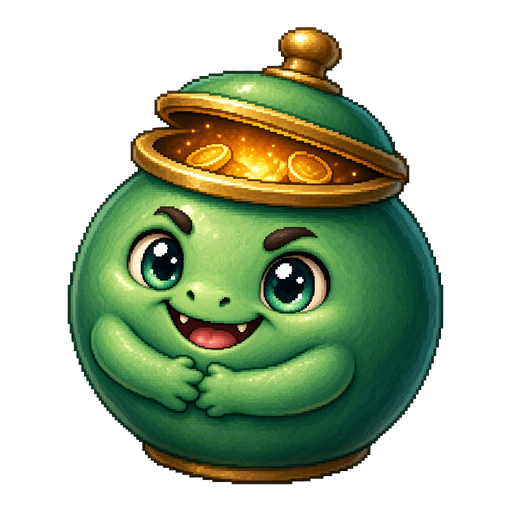
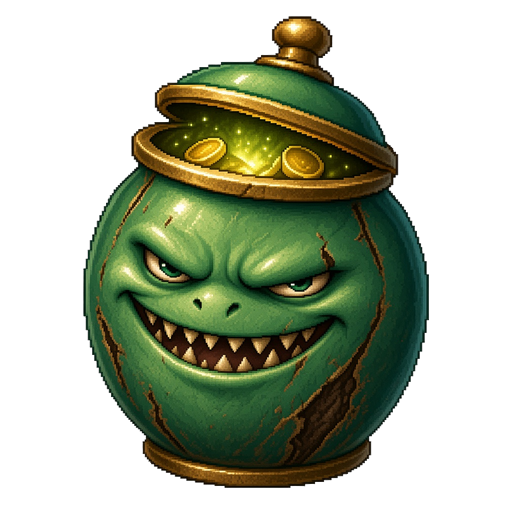
Give Greedpot a meaner face and lock Defense to tanks.

diff --git a/packages/engine/src/arena.ts b/packages/engine/src/arena.ts
@@ -3,7 +3,7 @@
 
 import { getCardDef, hasCard } from './cards/registry.js';
 import type { CardInstance, SummonCardDef } from './cards/types.js';
-import { hasPieceDef } from './pieces.js';
+import { canHaveDefense, getPieceDef, hasPieceDef } from './pieces.js';
 import { applyEffect, applySandboxAbility, beginSummon, IllegalActionError, offerOnSummonGrant, resolveSummon } from './rules.js';
 import {
   addPiece,
@@ -24,7 +24,7 @@ export type ArenaOp =
   | { type: 'removePiece'; square: Square }
   | { type: 'useAbility'; from: Square; to: Square; index?: number }
   | { type: 'setMana'; color: Color; mana: number }
-  /** Sandbox stance: enter Defense (1 charge) or leave it. King cannot. */
+  /** Sandbox stance: enter Defense (1 charge) only if the piece can have it; leave drops charges. */
   | { type: 'setStance'; square: Square; stance: 'attack' | 'defense' };
 
 const MANA_MAX = 99_999;
@@ -195,6 +195,9 @@ export function applyArenaOp(state: GameState, op: ArenaOp): GameState {
       if (piece.kind === 'king') throw new IllegalActionError('The King cannot have Defense.');
       if (piece.summon) throw new IllegalActionError('A piece being sacrificed cannot change stance.');
       if (op.stance === 'defense') {
+        if (!canHaveDefense(piece.kind)) {
+          throw new IllegalActionError(`${getPieceDef(piece.kind).name} cannot have Defense.`);
+        }
         if (piece.defense <= 0) {
           piece.defense = 1;
           piece.stance = 'defense';

diff --git a/packages/client/src/game/GameView.ts b/packages/client/src/game/GameView.ts
@@ -1,4 +1,4 @@
-import { canAct, getCardDef, getPieceDef, opposite, previewAbilities, previewMoves, rankOf, type Action, type ArenaOp, type Color, type GameEvent, type Piece, type PlayerView, type Square } from '@chessx/engine';
+import { canAct, canHaveDefense, getCardDef, getPieceDef, opposite, previewAbilities, previewMoves, rankOf, type Action, type ArenaOp, type Color, type GameEvent, type Piece, type PlayerView, type Square } from '@chessx/engine';
 import { Application, Container, Graphics, Text, type FederatedPointerEvent } from 'pixi.js';
 import { preloadArt } from './art.js';
 import { CardSprite } from './CardSprite.js';
@@ -363,7 +363,9 @@ export class GameView {
     if (!piece || !this.view) return null;
     if (this.arena) {
       if (piece.kind === 'king' || piece.summon) return null;
-      return { type: 'setStance', square: piece.square, stance: piece.defense > 0 ? 'attack' : 'defense' };
+      if (piece.defense > 0) return { type: 'setStance', square: piece.square, stance: 'attack' };
+      if (canHaveDefense(piece.kind)) return { type: 'setStance', square: piece.square, stance: 'defense' };
+      return null;
     }
     for (const a of this.view.legalActions) {
       if (a.type === 'setStance' && a.square === piece.square) return a;

diff --git a/packages/engine/test/rules.test.ts b/packages/engine/test/rules.test.ts
@@ -1111,8 +1111,9 @@ describe('testing arena', () => {
     expect(pieceAt(g, s('e4'))!.stance).toBe('defense');
 
     g = applyArenaOp(g, { type: 'spawnPiece', kind: 'pawn', color: 'black', square: s('d5') });
-    g = applyArenaOp(g, { type: 'setStance', square: s('d5'), stance: 'defense' });
-    expect(pieceAt(g, s('d5'))!.defense).toBe(1);
+    expect(() => applyArenaOp(g, { type: 'setStance', square: s('d5'), stance: 'defense' })).toThrow(/cannot have Defense/);
+    g = applyArenaOp(g, { type: 'spawnPiece', kind: 'greedpot', color: 'white', square: s('c4') });
+    expect(() => applyArenaOp(g, { type: 'setStance', square: s('c4'), stance: 'defense' })).toThrow(/cannot have Defense/);
     g = applyArenaOp(g, { type: 'spawnPiece', kind: 'king', color: 'white', square: s('e1') });
     expect(() => applyArenaOp(g, { type: 'setStance', square: s('e1'), stance: 'defense' })).toThrow(/King/);
   });

diff --git a/packages/client/src/inspect.ts b/packages/client/src/inspect.ts
@@ -174,7 +174,9 @@ export class InspectPanel {
     } else if (isKing) {
       this.stanceHint.textContent = 'The King cannot have Defense.';
     } else if (piece.defense <= 0) {
-      this.stanceHint.textContent = 'Only pieces with Defense can leave it. Standard pieces never start with Defense.';
+      this.stanceHint.textContent = gameView.arena
+        ? 'This piece cannot have Defense.'
+        : 'Only pieces with Defense can leave it. Standard pieces never start with Defense.';
     } else if (piece.summon) {
       this.stanceHint.textContent = 'A piece being sacrificed cannot leave Defense.';
     } else if (currentView?.turnInfo.stanceChanged.includes(piece.id)) {

diff --git a/packages/engine/src/pieces.ts b/packages/engine/src/pieces.ts
@@ -111,6 +111,12 @@ export function getPieceDef(kind: string): PieceDef {
   return def;
 }
 
+/** True if this kind can ever hold Defense charges (tanks). Kings never can. */
+export function canHaveDefense(kind: string): boolean {
+  if (kind === 'king' || !hasPieceDef(kind)) return false;
+  return (getPieceDef(kind).defense ?? 0) > 0;
+}
+
 /** The definition as shipped in code, before any balance patch. */
 export function basePieceDef(kind: string): PieceDef {
   const def = base.get(kind);
